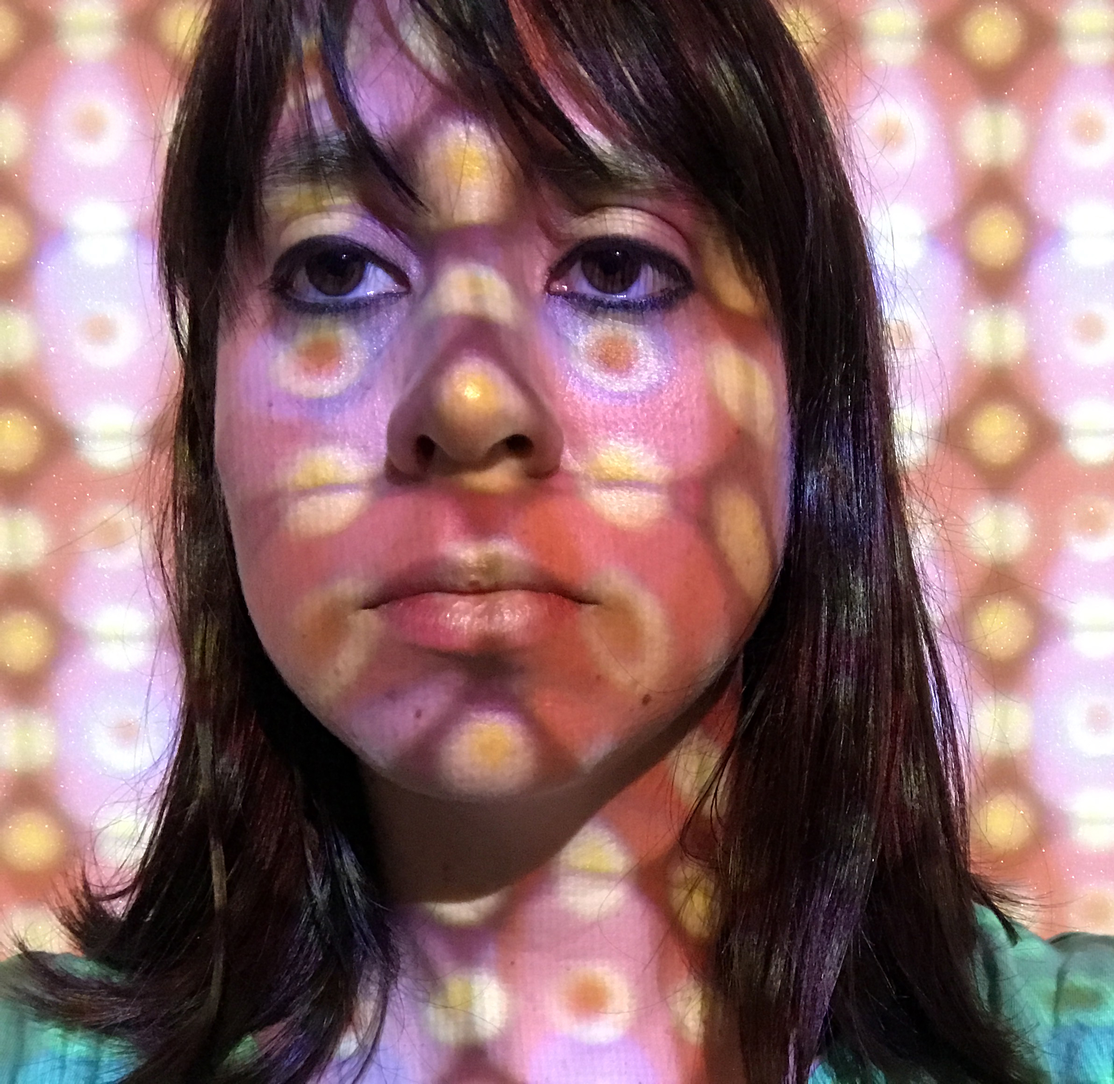
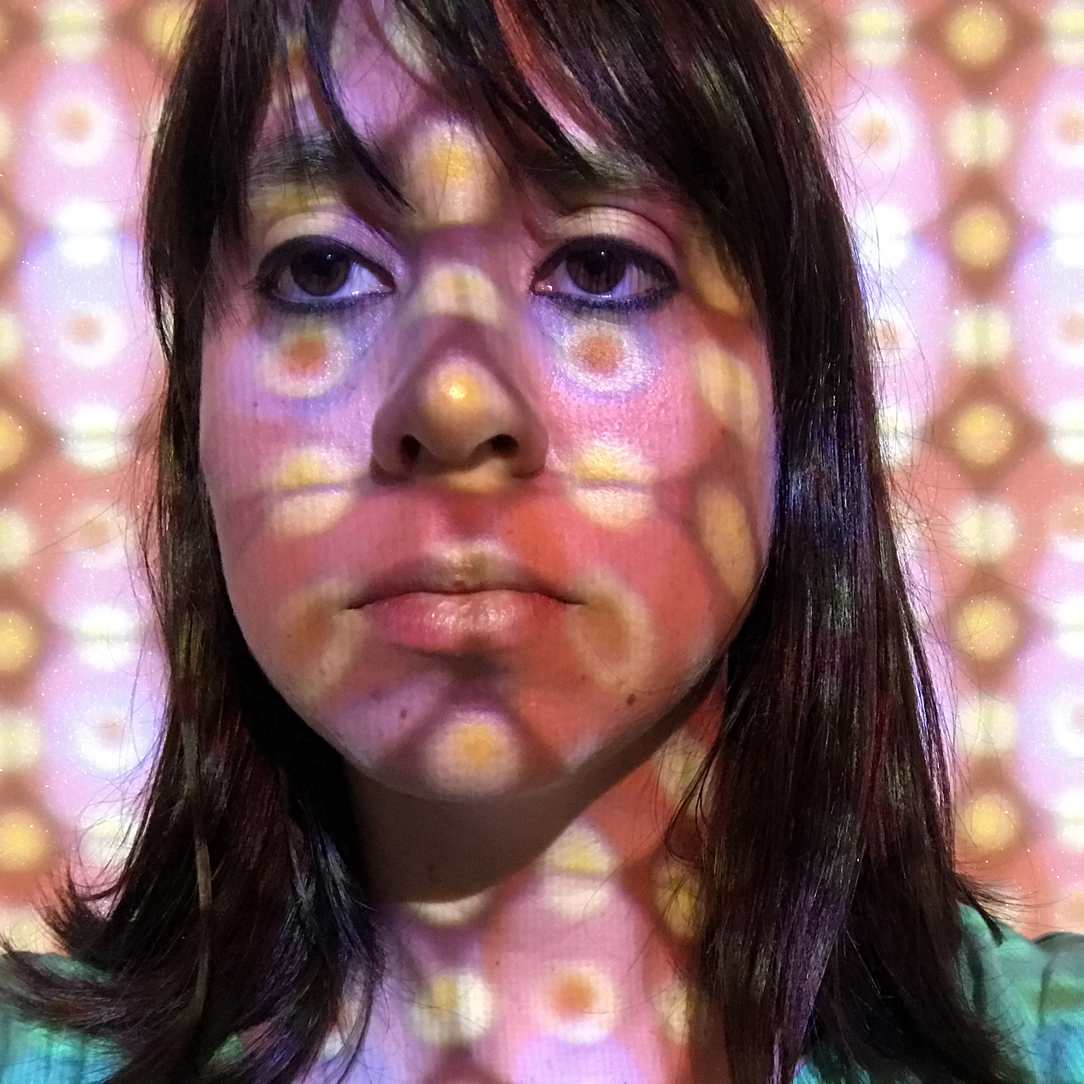
image size update

diff --git a/index.html b/index.html
@@ -13,7 +13,7 @@
 
         <div id="center">
         <p><img src = "images/valerieFace.JPG" alt="Valerie Guinn Polgar's face" 
-            style="width:500px;height:487px"></p>
+            style="width:500px;height:500px"></p>
         </div>
         
         <div id="buttons">
